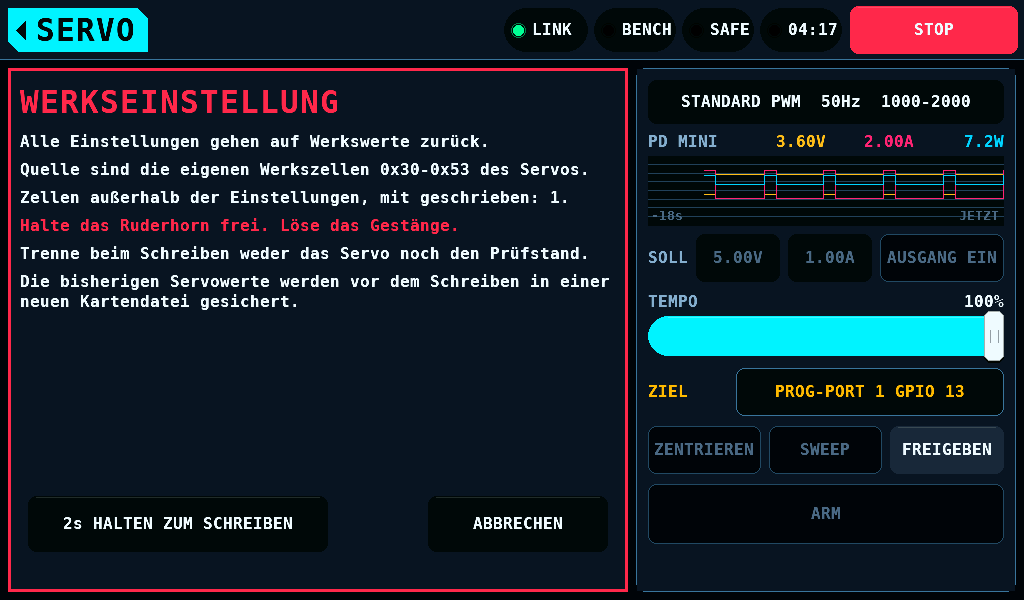
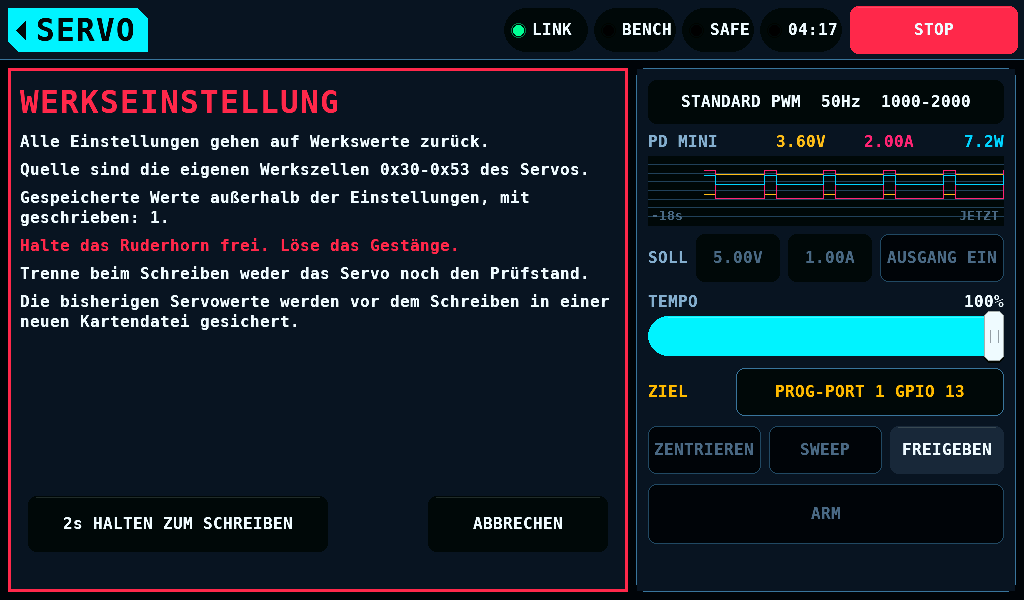
Word the FACTORY DEFAULT count as the RESTORE page does

Changed region(s): [[0.0, 0.3, 0.5938, 0.57]]

diff --git a/docs/HitecProgrammer-de.md b/docs/HitecProgrammer-de.md
@@ -599,8 +599,8 @@ den eigenen Werkszellen des Servos, wie gelesen, mit berechnetem
 Ausgleich, und öffnet eine Seite mit `Alle Einstellungen gehen auf
 Werkswerte zurück.`, `Quelle sind die eigenen Werkszellen 0x30-0x53 des
 Servos.`, den Werten, die sich ändern, der Zahl der Zellen ohne
-Einstellung, die sie schreibt, `Zellen außerhalb der Einstellungen, mit
-geschrieben: 1.`, der Zeile zum Ruderhorn und den Zeilen der Backup-Datei. **2s HALTEN ZUM SCHREIBEN** schreibt sie als
+Einstellung, die sie schreibt, `Gespeicherte Werte außerhalb der Einstellungen,
+mit geschrieben: 1.`, der Zeile zum Ruderhorn und den Zeilen der Backup-Datei. **2s HALTEN ZUM SCHREIBEN** schreibt sie als
 Schreiben und endet mit `Werkswerte geschrieben und geprüft.` Sie braucht
 den Schalter, keine offene Änderung und keinen Vermerk. Sie wird
 angeboten, solange eine Zelle von 0x00 bis 0x23, die ein Schreiben sendet,

diff --git a/docs/HitecProgrammer.md b/docs/HitecProgrammer.md
@@ -550,7 +550,7 @@ plans the same copy from the servo's own factory cells as read, with the
 balance computed, and opens a page with `All settings go back to the
 factory values.`, `The source is the servo's own factory cells 0x30-0x53.`,
 the values that change, the count of cells no setting names that it
-writes, `Cells outside the settings written too: 1.`, the horn line and the
+writes, `Stored values outside the settings written too: 1.`, the horn line and the
 backup file's lines. **HOLD
 2s TO WRITE** writes it as a write and ends with `Factory values written
 and verified.` It needs the switch, no edit standing and no record. It is
